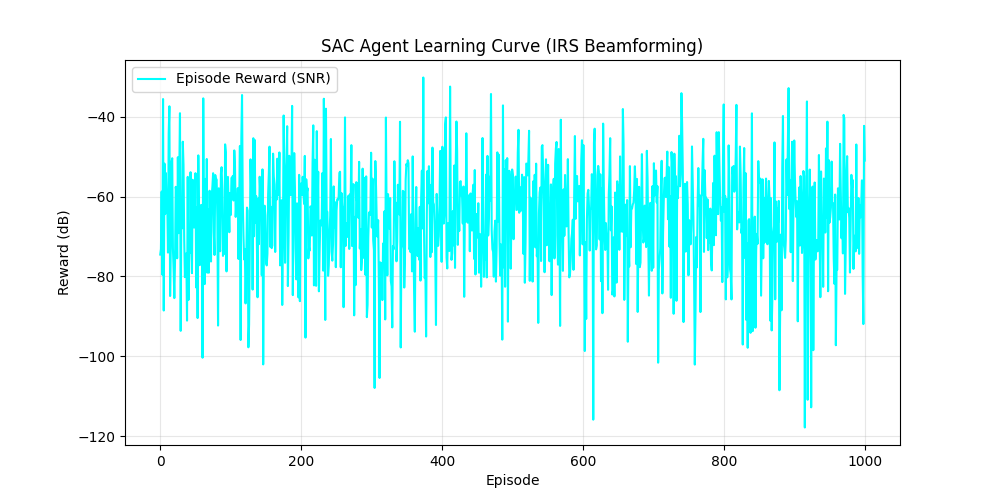
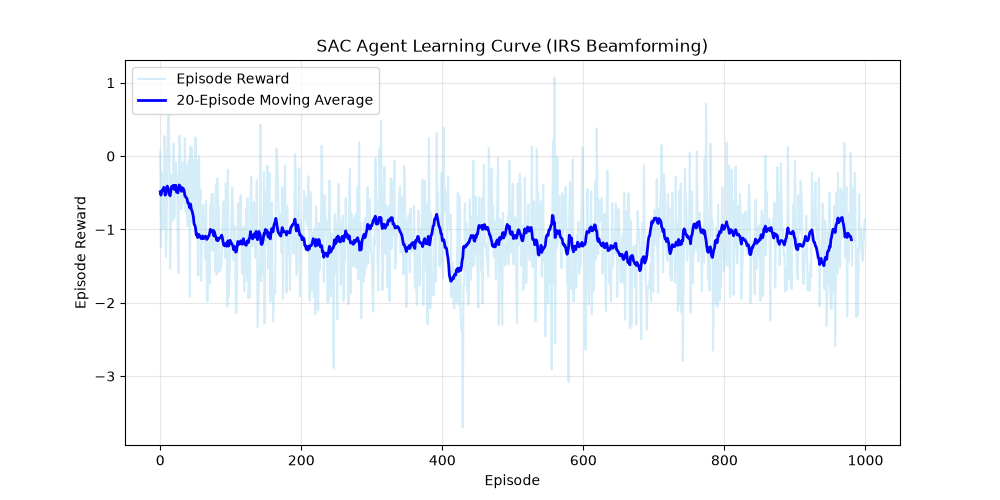
intial commit

diff --git a/python/drl/train_agent.py b/python/drl/train_agent.py
@@ -18,8 +18,8 @@ def main():
     agent = SACAgent(state_dim=state_dim, action_dim=action_dim)
     
     num_episodes = 1000
-    batch_size = 64
-    
+    batch_size = 128
+    learning_starts = 5000
     rewards_history = []
     
     print(f"State Dim: {state_dim}, Action Dim: {action_dim}")
@@ -29,6 +29,8 @@ def main():
         state, _ = env.reset()
         episode_reward = 0
         done = False
+        policy_loss = 0.0
+        qf_loss = 0.0
         
         while not done:
             # SAC inherently explores during training via stochastic policy
@@ -39,14 +41,23 @@ def main():
             agent.memory.push(state, action, reward, next_state, done)
             
             # Train the network
-            if len(agent.memory) > batch_size:
-                policy_loss, qf_loss = agent.train(batch_size)
+            if len(agent.memory) > learning_starts> batch_size:
+                for i in range(2):
+                    policy_loss, qf_loss = agent.train(batch_size)
+
+               
                 
             state = next_state
             episode_reward += reward
             
         rewards_history.append(episode_reward)
-        print(f"Episode {episode+1}/{num_episodes} | Total Reward (Average SNR): {episode_reward:.2f} dB")
+        if (episode + 1) % 10 == 0:
+            print(
+                f"Episode {episode+1:4d}/{num_episodes} | "
+                f"Reward: {episode_reward:7.3f} | "
+                f"Actor Loss: {policy_loss:8.4f} | "
+                f"Critic Loss: {qf_loss:8.4f}"
+            )
         
     print("Training Complete!")
     
@@ -56,17 +67,43 @@ def main():
     print(f"Saved SAC actor weights to: {save_path}")
     
     # Plot Learning Curve
-    plt.figure(figsize=(10,5))
-    plt.plot(rewards_history, label='Episode Reward (SNR)', color='cyan')
-    plt.title('SAC Agent Learning Curve (IRS Beamforming)')
-    plt.xlabel('Episode')
-    plt.ylabel('Reward (dB)')
+    window = 20
+    plt.figure(figsize=(10, 5))
+
+    # Raw rewards
+    plt.plot(
+        rewards_history,
+        alpha=0.35,
+        color="skyblue",
+        label="Episode Reward"
+    )
+
+    # Moving average
+    if len(rewards_history) >= window:
+        moving_avg = np.convolve(
+            rewards_history,
+            np.ones(window) / window,
+            mode="valid"
+        )
+        plt.plot(
+            moving_avg,
+            color="blue",
+            linewidth=2,
+            label=f"{window}-Episode Moving Average"
+        )
+
+    plt.title("SAC Agent Learning Curve (IRS Beamforming)")
+    plt.xlabel("Episode")
+    plt.ylabel("Episode Reward")
     plt.grid(True, alpha=0.3)
     plt.legend()
-    
-    plot_path = os.path.join(os.path.dirname(__file__), 'learning_curve.png')
+
+    plot_path = os.path.join(os.path.dirname(__file__), "learning_curve.png")
     plt.savefig(plot_path)
     print(f"Saved learning curve plot to: {plot_path}")
 
+
 if __name__ == "__main__":
     main()
+
+

diff --git a/python/drl/irs_env.py b/python/drl/irs_env.py
@@ -23,7 +23,7 @@ class IRSEnv(gym.Env):
         self.N = self.irs_panel.N
         
         # State: [ue_x, ue_y, vel_x, vel_y, d_bs, d_irs, prev_snr]
-        self.observation_space = spaces.Box(low=-np.inf, high=np.inf, shape=(7,), dtype=np.float32)
+        self.observation_space = spaces.Box(low=-np.inf, high=np.inf, shape=(11,), dtype=np.float32)
         
         # Action: Continuous delta-phases for each element in range [-1, 1]
         self.action_space = spaces.Box(low=-1.0, high=1.0, shape=(self.N,), dtype=np.float32)
@@ -31,7 +31,9 @@ class IRSEnv(gym.Env):
         self.ue_pos = None
         self.ue_velocity = None
         self.current_phases = np.zeros(self.N, dtype=np.float32)
-        self.prev_snr_db = 0.0
+        self.prev_snr_db = -10.0
+        self.channel_gain = 0.0
+        self.channel_phase = 0.0
         
         self.env_model = ChannelEnvironment(self.bs_pos, self.irs_pos, (0,0,0))
         
@@ -61,7 +63,7 @@ class IRSEnv(gym.Env):
         
         return self._get_obs(), {}
 
-    def _get_obs(self):
+    '''def _get_obs(self):
         d_bs = np.linalg.norm(self.ue_pos - np.array(self.bs_pos[:2])) / self.room_size
         d_irs = np.linalg.norm(self.ue_pos - np.array(self.irs_pos[:2])) / self.room_size
         snr_norm = (self.prev_snr_db + 10.0) / 40.0
@@ -74,8 +76,27 @@ class IRSEnv(gym.Env):
             d_bs,
             d_irs,
             snr_norm
-        ], dtype=np.float32)
+        ], dtype=np.float32)'''
+    def _get_obs(self):
+        d_bs = np.linalg.norm(self.ue_pos - np.array(self.bs_pos[:2])) / self.room_size
+        d_irs = np.linalg.norm(self.ue_pos - np.array(self.irs_pos[:2])) / self.room_size
+        snr_norm = np.clip((self.prev_snr_db + 10.0) / 40.0, 0.0, 1.0)
+        mean_phase = np.mean(self.current_phases) / np.pi  # Normalize mean phase to [-1, 1]
+        phase_std = np.std(self.current_phases) / np.pi  # Normalize std deviation to [0, 1]
 
+        return np.array([
+            self.ue_pos[0] / self.room_size,
+            self.ue_pos[1] / self.room_size,
+            self.ue_velocity[0] / 2.0,
+            self.ue_velocity[1] / 2.0,
+            d_bs,
+            d_irs,
+            snr_norm,
+            mean_phase,
+            phase_std, 
+            self.channel_gain, 
+            self.channel_phase       
+        ], dtype=np.float32)
     def step(self, action):
         self.current_step += 1
         
@@ -90,6 +111,9 @@ class IRSEnv(gym.Env):
         # 2. Get Channels
         self.env_model.ue_pos = np.array([self.ue_pos[0], self.ue_pos[1], 1.5])
         G, h_r, h_d = self.env_model.get_channels(self.N)
+        effective_channel = h_r*G
+        self.channel_gain = np.mean(np.abs(effective_channel))
+        self.channel_phase = np.angle(np.sum(effective_channel)) / np.pi
         
         # 3. Calculate True SNR
         gain = np.dot(np.conj(h_r).T, np.dot(Phi, G)) + h_d
@@ -99,16 +123,22 @@ class IRSEnv(gym.Env):
         noise_power_linear = 10**(-12.4)
         snr_linear = power_linear / noise_power_linear
         snr_db = 10 * np.log10(snr_linear + 1e-20)
-        self.prev_snr_db = snr_db
+        'self.prev_snr_db = snr_db'
         
         # Reward is the SNR. Normalize it for SAC.
         # Shift by +10 and scale. SNR usually -10 dB to +30 dB in this config.
-        reward = (snr_db + 10.0) / 40.0
-        
+        '''reward = (snr_db + 10.0) / 40.0
+      
         # Penalty for aggressive phase flipping (Regularization)
         action_penalty = 0.05 * np.mean(action**2)
+        reward -= action_penalty'''
+        snr_improvement = snr_db - self.prev_snr_db
+        reward = 0.3 * np.tanh(snr_improvement / 3.0)
+        reward += 0.7 * np.clip((snr_db + 10.0) / 40.0, 0.0, 1.0)
+        action_penalty = 0.01 * np.mean(action**2)
+
         reward -= action_penalty
-        
+        self.prev_snr_db = snr_db  # Update previous SNR after reward calculation
         # 4. Simulate User Movement (Smooth bouncing trajectory)
         self.ue_pos += self.ue_velocity
         

diff --git a/python/drl/sac_agent.py b/python/drl/sac_agent.py
@@ -26,7 +26,7 @@ class ReplayBuffer:
         return len(self.buffer)
 
 class Actor(nn.Module):
-    def __init__(self, state_dim, action_dim, hidden_dim=256):
+    def __init__(self, state_dim, action_dim, hidden_dim= 512):
         super(Actor, self).__init__()
         self.net = nn.Sequential(
             nn.Linear(state_dim, hidden_dim),
@@ -58,7 +58,7 @@ class Actor(nn.Module):
         return action, log_prob, torch.tanh(mu)
 
 class Critic(nn.Module):
-    def __init__(self, state_dim, action_dim, hidden_dim=256):
+    def __init__(self, state_dim, action_dim, hidden_dim= 512):
         super(Critic, self).__init__()
         # Q1 architecture
         self.q1 = nn.Sequential(
@@ -110,7 +110,7 @@ class SACAgent:
                 action, _, _ = self.actor.sample(state)
         return action.cpu().numpy()[0]
         
-    def train(self, batch_size=64):
+    def train(self, batch_size=128):
         if len(self.memory) < batch_size:
             return 0.0, 0.0
             
@@ -135,6 +135,7 @@ class SACAgent:
         
         self.critic_optimizer.zero_grad()
         qf_loss.backward()
+        torch.nn.utils.clip_grad_norm_(self.critic.parameters(), 1.0)  # Gradient clipping
         self.critic_optimizer.step()
         
         pi, log_pi, _ = self.actor.sample(state)
@@ -145,6 +146,7 @@ class SACAgent:
         
         self.actor_optimizer.zero_grad()
         policy_loss.backward()
+        torch.nn.utils.clip_grad_norm_(self.actor.parameters(), 1.0)  # Gradient clipping
         self.actor_optimizer.step()
         
         for target_param, param in zip(self.critic_target.parameters(), self.critic.parameters()):